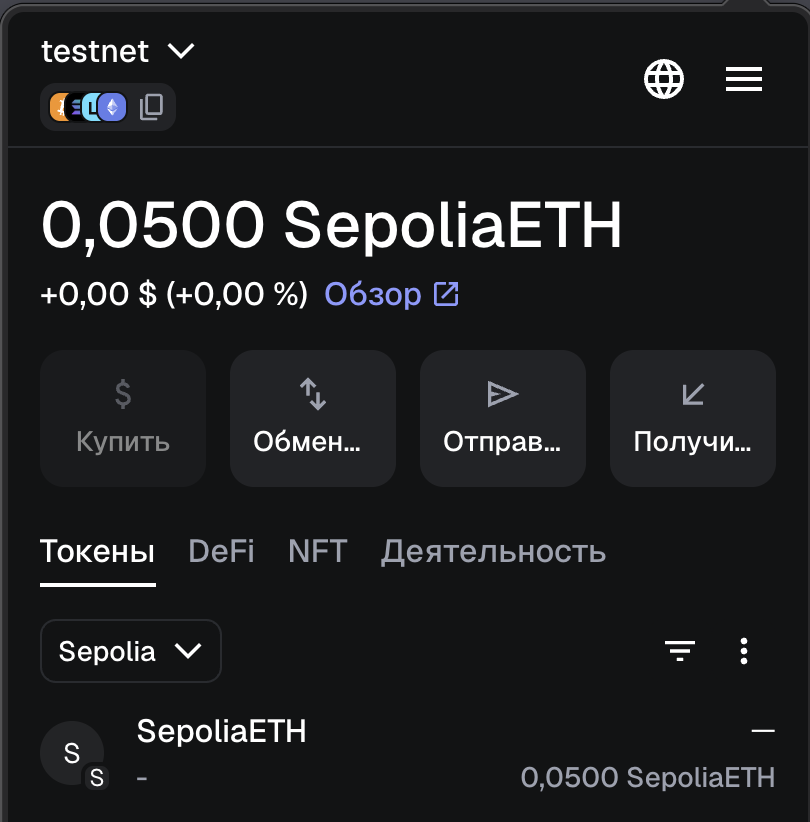
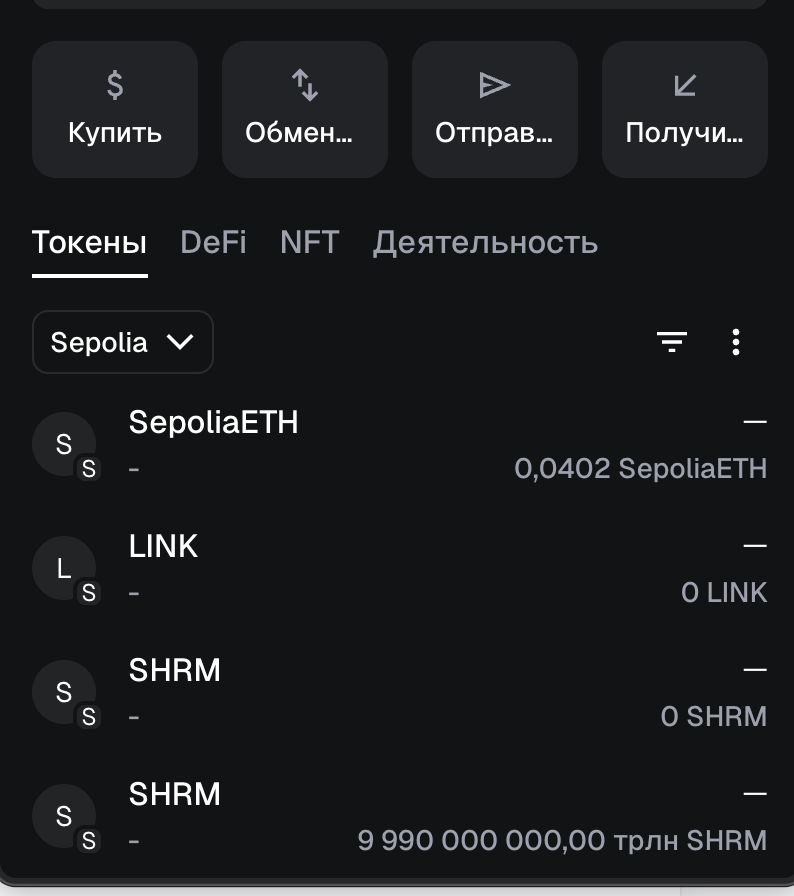
fix readme

diff --git a/README.md b/README.md
@@ -13,19 +13,19 @@ pip install -r requirements.txt
 ## Compile contract
 
 ```
-python3 compile_contract.py
+python3 scripts/compile_contract.py
 ```
 
 ## Deploy contract
 
 ```
-python3 deploy_contract.py
+python3 scripts/deploy_contract.py
 ```
 
 ## Test contract
 
 ```
-python3 interact_contract.py
+python3 scripts/interact_contract.py
 ```
 
 # Description 
@@ -36,22 +36,57 @@ python3 interact_contract.py
 
 CHAIN_ID=11155111 - sepolia testnet
 
-1. Got ETH from faucet https://cloud.google.com/application/web3/faucet/ethereum/sepoliaх
+1. Got ETH from faucet https://cloud.google.com/application/web3/faucet/ethereum/sepolia
 
-[fetor_wallet]
+![fetor_wallet](pic/fetor_wallet.png)
 
 2. Compiled contract
 3. Deployed contract
 
 ```
-Transaction sent! hash: d663f0f292a48ab2185cc0edb52ae3dacda775004cc3f19db46c3b8420eea8d3
-Contract deployed: 0x0D6620D7176B6EC1b047EBf22668c66D538D7EB0
+Transaction sent, hash: 40e9ac3fc1de689035ff0940c757c2ba9ce7c5ec15c66519639c89739bda322a
+Contract deployed: 0xa5Ea4345f953387b35cc139266CE972A7126CF8a
 ```
 
-https://sepolia.etherscan.io/address/0x0D6620D7176B6EC1b047EBf22668c66D538D7EB0
+https://sepolia.etherscan.io/address/0xa5Ea4345f953387b35cc139266CE972A7126CF8a
 
-
-[contract_deployed]
+![contract_deployed](pic/contract_deployed.png)
 
 4. Tested contract
 
+```
+>> python3 interact_contract.py balance  
+<< Balance: 0 SHRM
+```
+
+```
+>> python3 interact_contract.py mint 10000
+<< Minted, hash: e1d3371644c33837bc65d2aa3d1f311730e10d85a82cbdedab682b64993e05e3
+<< Confirmed
+```
+
+```
+>>> python3 interact_contract.py transfer 0x53Cb4c128B7dc3CD1F763aC011dE34817a23f244 10
+<<< Sent, hash: f30452484f7639fa79f42c2d6cdc0e10cf971fb512ffc9e3a940fb64f99fecad
+<<< Confirmed
+```
+
+```
+>>> python3 interact_contract.py balance  
+<<< Balance: 9990 SHRM
+```
+
+```
+>>> python3 interact_contract.py burn 500
+<<< Burned, hash: 80c5d83e73a82e983f72fb1f22244208c9e557e092e455d66f5c2d7888c0d69c
+<<< Confirmed
+```
+
+```
+>>> python3 interact_contract.py balance
+<<< Balance: 9490 SHRM
+```
+
+![amber_wallet](pic/amber_wallet.jpg)
+
+![contract_transactions](pic/contract_transactions.png)
